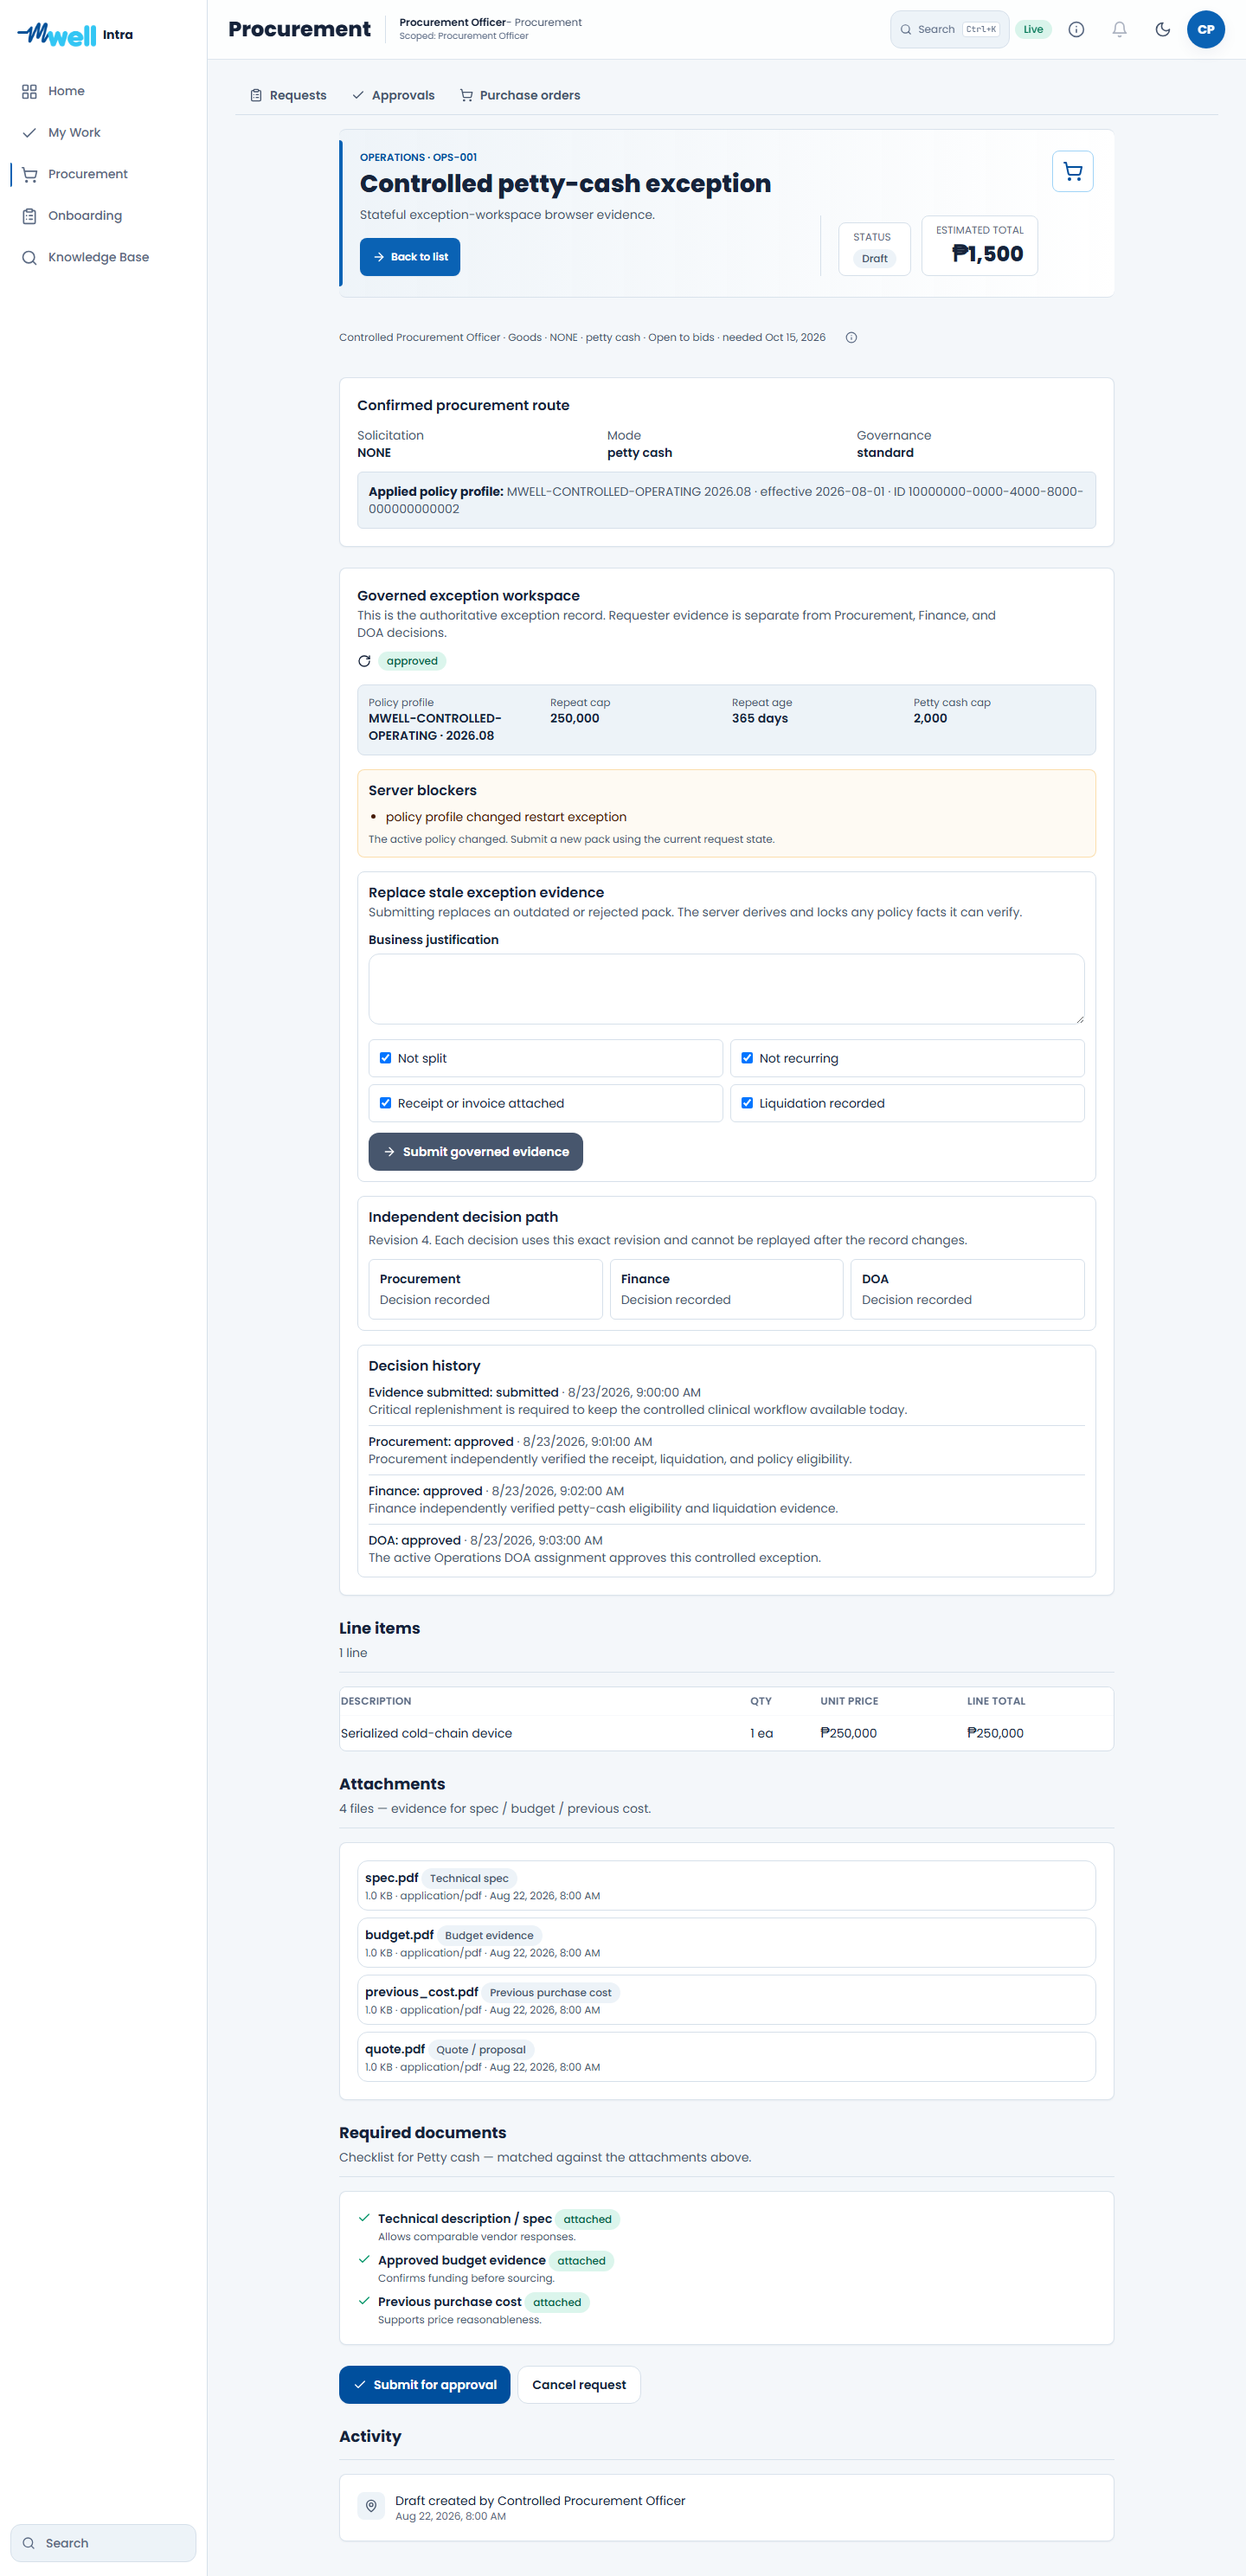
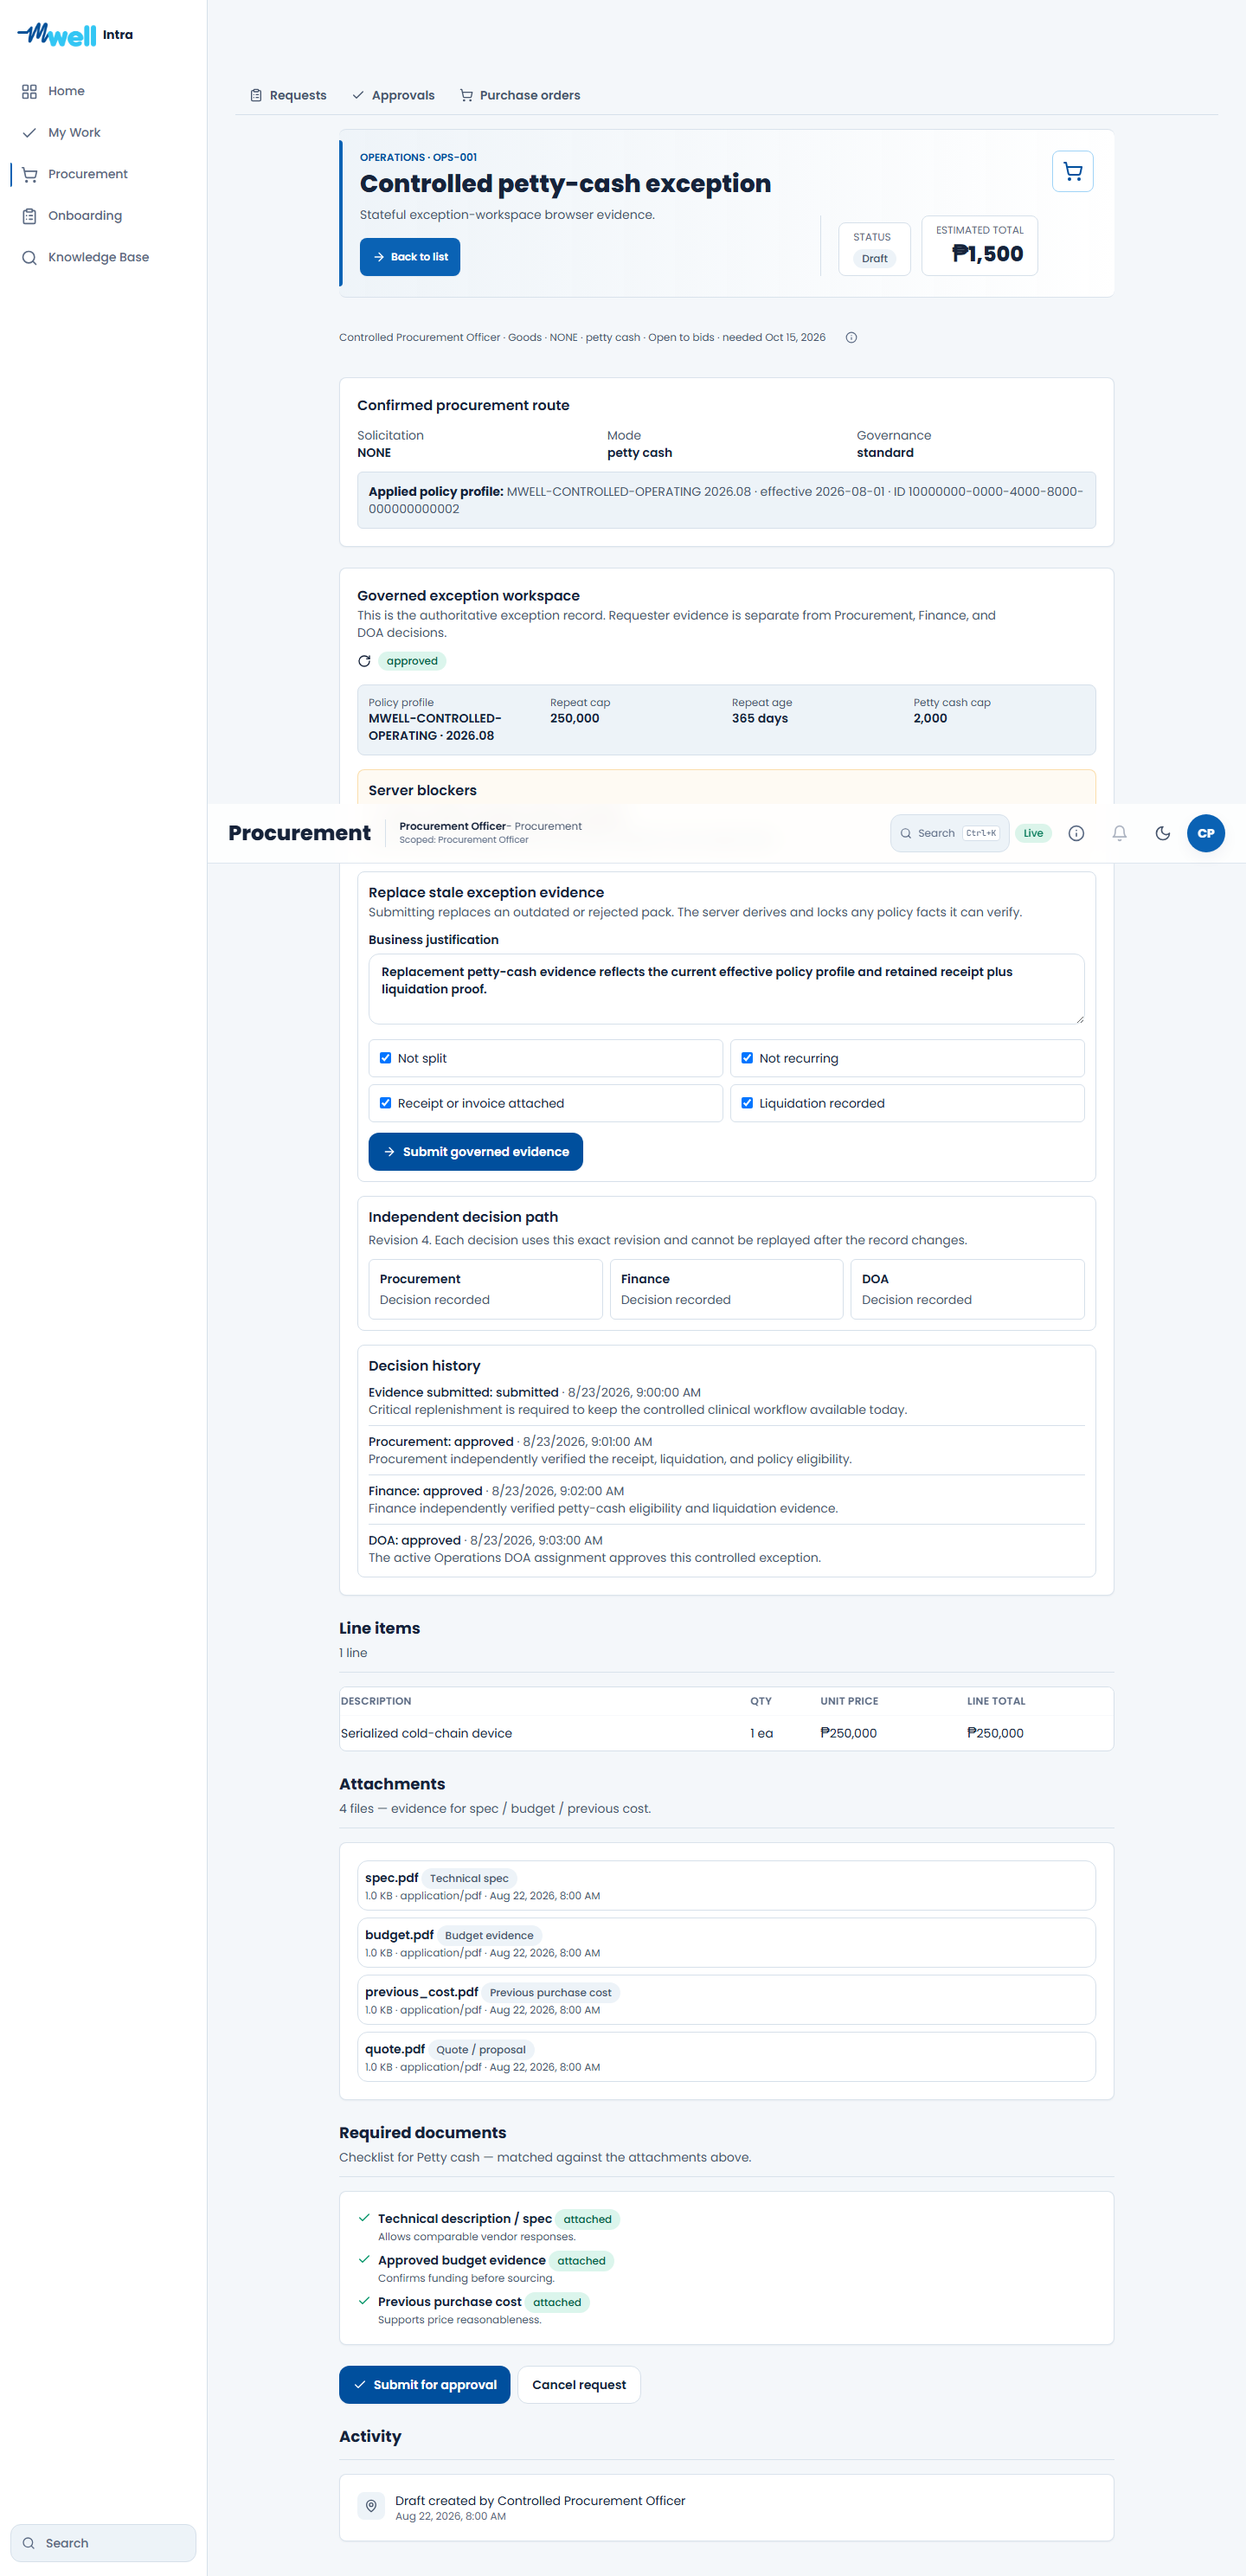
fix(procurement): lock down exception helper access

diff --git a/apps/shell/tests/e2e/task-8-exception-workspace.spec.ts b/apps/shell/tests/e2e/task-8-exception-workspace.spec.ts
@@ -23,6 +23,25 @@ async function completePettyEvidence(page: Page) {
   await page.getByLabel('Liquidation recorded').check();
 }
 
+async function assertActionableInViewport(page: Page, buttonName: string) {
+  const button = page.getByRole('button', { name: buttonName });
+  await button.evaluate((element) => element.scrollIntoView({ block: 'center', inline: 'nearest' }));
+  await expect(button).toBeVisible();
+  const visibility = await button.evaluate((element) => {
+    const rect = element.getBoundingClientRect();
+    const x = rect.left + rect.width / 2;
+    const y = rect.top + rect.height / 2;
+    const target = document.elementFromPoint(x, y);
+    return {
+      inViewport: rect.top >= 0 && rect.bottom <= window.innerHeight && rect.left >= 0 && rect.right <= window.innerWidth,
+      receivesPointer: target === element || element.contains(target),
+    };
+  });
+  expect(visibility.inViewport, `${buttonName} must be fully visible before activation`).toBe(true);
+  expect(visibility.receivesPointer, `${buttonName} center point must not be covered by app chrome`).toBe(true);
+  return button;
+}
+
 test('Task 8 governed exception workspace is usable across independent desktop and mobile lifecycle actors', async ({ browser }, testInfo) => {
   const fixture = new ControlledProcurementRpcFixture();
   fixture.prepareExceptionWorkspace();
@@ -85,7 +104,18 @@ test('Task 8 governed exception workspace is usable across independent desktop a
   await recovery.page.getByRole('button', { name: 'Refresh exception workspace' }).click();
   await expect(recovery.page.getByText('policy profile changed restart exception')).toBeVisible();
   await expect(recovery.page.getByRole('heading', { name: 'Replace stale exception evidence' })).toBeVisible();
+  await recovery.page.getByLabel('Business justification').fill('Replacement petty-cash evidence reflects the current effective policy profile and retained receipt plus liquidation proof.');
+  await recovery.page.getByLabel('Receipt or invoice attached').uncheck();
+  await recovery.page.getByLabel('Receipt or invoice attached').check();
+  await recovery.page.getByLabel('Liquidation recorded').uncheck();
+  await recovery.page.getByLabel('Liquidation recorded').check();
+  const replacementSubmit = await assertActionableInViewport(recovery.page, 'Submit governed evidence');
   await recovery.page.screenshot({ path: resolve(evidenceDir, `task-8-exception-recovery-${testInfo.project.name}.png`), fullPage: true });
+  await replacementSubmit.click();
+  await expect(recovery.page.getByText('under review', { exact: true })).toBeVisible();
+  await expect(recovery.page.getByText('Evidence submitted: submitted')).toBeVisible();
+  await expect(recovery.page.getByText('policy profile changed restart exception')).toHaveCount(0);
+  await recovery.page.screenshot({ path: resolve(evidenceDir, `task-8-exception-recovery-submitted-${testInfo.project.name}.png`), fullPage: true });
   await recovery.context.close();
 
   // These are the two deliberate 400 responses exercised above: submit
@@ -96,6 +126,7 @@ test('Task 8 governed exception workspace is usable across independent desktop a
     'exceptionDoa: Failed to load resource: the server responded with a status of 400 (Bad Request)',
   ]);
   expect(fixture.callsNamed('submit_policy_exception_pack').map((call) => call.actor)).toEqual([
+    actor('procurement').id,
     actor('procurement').id,
     actor('procurement').id,
   ]);

diff --git a/docs/qa/task-8-exception-workspace-browser.md b/docs/qa/task-8-exception-workspace-browser.md
@@ -20,7 +20,7 @@ Route: `/procurement/requests/controlled-request-0001`
 | Review | Independent Procurement reviewer | Procurement may record only the Procurement decision. |
 | Review | Independent Finance reviewer | Finance may record only petty-cash eligibility. |
 | Approval and refresh | Independent DOA actor | DOA records the final decision; a deliberate workspace refresh failure is visible and a subsequent refresh restores decision history. |
-| Recovery | Procurement submitter | A policy-profile change produces the server blocker and exposes the actionable `Replace stale exception evidence` form. |
+| Recovery | Procurement submitter | A policy-profile change produces the server blocker and exposes `Replace stale exception evidence`. The submit control is scrolled into an unobscured viewport position, its center point is verified as receiving pointer events, and fresh replacement evidence is submitted into a new `under review` pack with submitted history. |
 
 The fixture asserts that exactly the intentional submit and refresh 400 responses appear in the browser console. No other console errors are accepted. It also asserts the three review RPC calls come from distinct role actors in the required order.
 
@@ -28,10 +28,10 @@ The fixture asserts that exactly the intentional submit and refresh 400 response
 
 | Viewport | Submitter state | Approval/history state | Stale recovery state |
 | --- | --- | --- | --- |
-| Desktop, 1440 x 900 | `evidence/task-8-exception-submitter-desktop-1440.png` | `evidence/task-8-exception-history-desktop-1440.png` | `evidence/task-8-exception-recovery-desktop-1440.png` |
-| Mobile, 390 x 844 | `evidence/task-8-exception-submitter-mobile-390.png` | `evidence/task-8-exception-history-mobile-390.png` | `evidence/task-8-exception-recovery-mobile-390.png` |
+| Desktop, 1440 x 900 | `evidence/task-8-exception-submitter-desktop-1440.png` | `evidence/task-8-exception-history-desktop-1440.png` | `evidence/task-8-exception-recovery-desktop-1440.png`, then `evidence/task-8-exception-recovery-submitted-desktop-1440.png` |
+| Mobile, 390 x 844 | `evidence/task-8-exception-submitter-mobile-390.png` | `evidence/task-8-exception-history-mobile-390.png` | `evidence/task-8-exception-recovery-mobile-390.png`, then `evidence/task-8-exception-recovery-submitted-mobile-390.png` |
 
-The captured renders were manually inspected. Desktop retains clear stage cards and history; mobile remains one-column with visible blockers and no observed clipped actions or horizontal overflow.
+The captured renders were manually inspected. Desktop retains clear stage cards and history; mobile remains one-column with visible blockers and no observed clipped actions or horizontal overflow. The automated recovery assertion additionally proves that the mobile submit control is fully in view and not covered by persistent application chrome when tapped.
 
 ## Controlled-test boundary
 

diff --git a/.superpowers/sdd/2026-08-22-mpic-procurement-policy-alignment/task-8-report.md b/.superpowers/sdd/2026-08-22-mpic-procurement-policy-alignment/task-8-report.md
@@ -44,3 +44,9 @@
 ### Fix-round-2 verification boundary
 
 - Migration remains unapplied. No live Supabase, UAT, production, or deployment mutation was performed.
+
+## Fix Round 3
+
+- Explicitly revoked `EXECUTE` from `PUBLIC`, `anon`, and `authenticated` on the Task 8 private security-definer binding helper. The static verifier now requires a revocation for every Task 8 private helper, and the PGlite privilege contract verifies that `anon`, `authenticated`, and `service_role` cannot execute the binding helper directly.
+- Extended the rendered stale-profile recovery path on desktop and mobile: the Procurement submitter fills replacement evidence, the test scrolls the submit control into an unobscured position, verifies its center point receives pointer events, submits it, refreshes the authoritative workspace, and captures the resulting `under review` pack plus submitted history. The controlled console allowlist remains exactly the two intentional earlier 400 responses.
+- Node 22.14.0 / pnpm 10.23.0 verification passed: static alignment contract, focused Procurement typecheck, full PGlite suite (17/17), and controlled Playwright evidence at desktop 1440 x 900 and mobile 390 x 844 (2/2). No unexpected browser console errors were accepted.
